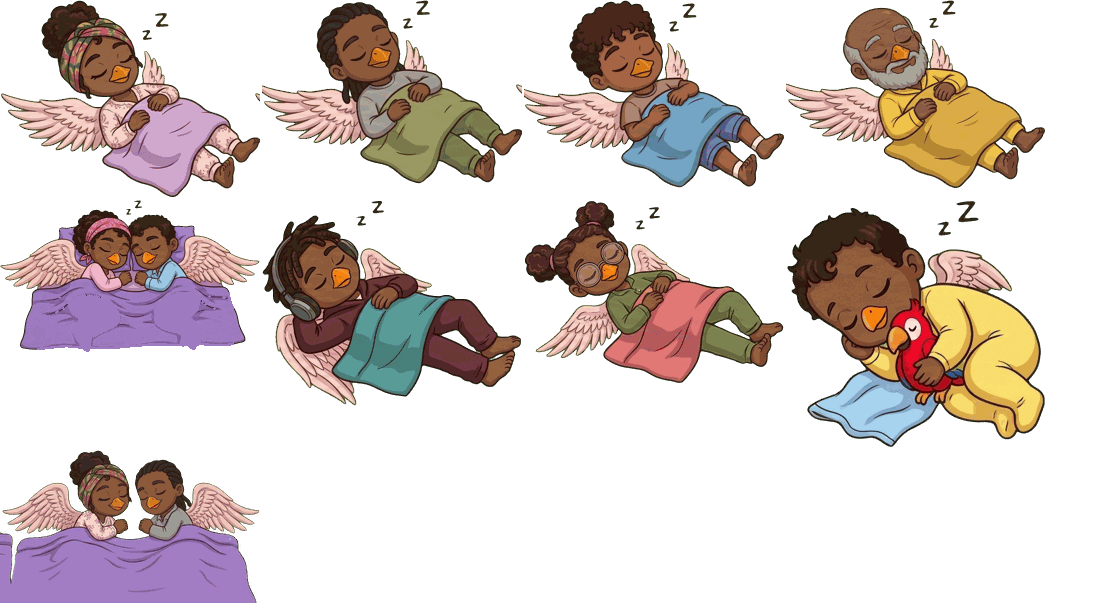
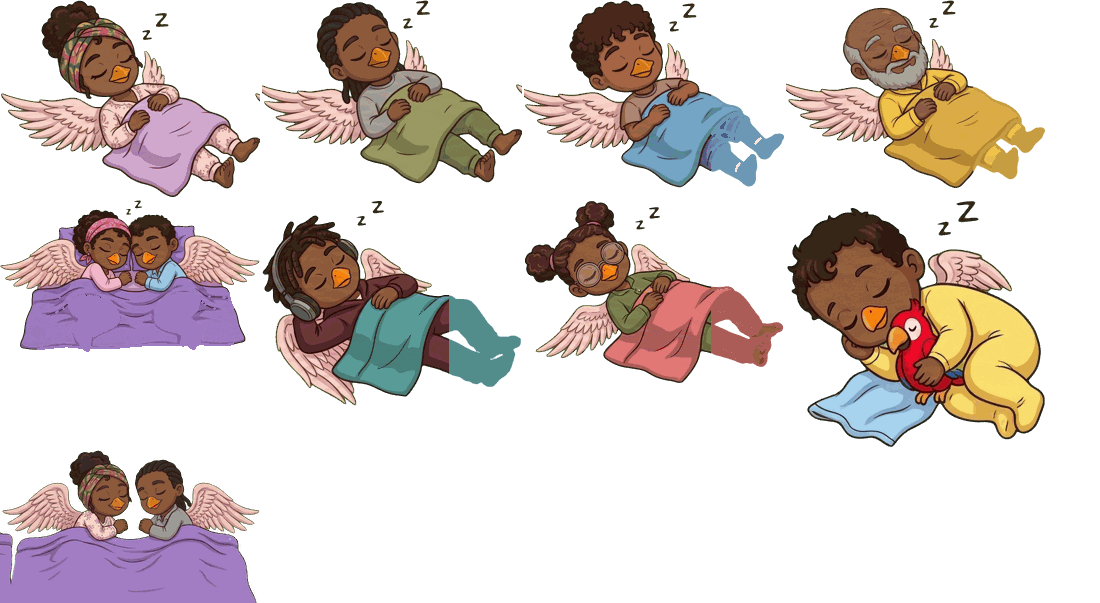
Dormeurs à leur taille en jeu, pieds sous la couverture, Lila et Nijan bien sur leur lit ; cabine dézoomée
Claude-Session: https://claude.ai/code/session_014bi368SbjZ4sCSmbjCzFcj

diff --git a/game.js b/game.js
@@ -4242,17 +4242,17 @@ function icTouch(q) {
   Object.defineProperty(SC_MUS, 'npc', { configurable: true, get: () => nearestN(SC_MUS.npcs()) });
 }
 // la nuit, les habitants qui ont un lit dorment dedans : Miraaï et Kahn (grand lit) et Nijan (lit superposé) chez Myah, la famille Ukaï, Zyno dans sa cabine
-const SLP_IMG = new Image(); SLP_IMG.src = 'assets/sleepers.png?v=60'; const SLP_M = {"maman": [0, 0, 260, 198], "kahn": [262, 0, 260, 184], "frere": [524, 0, 260, 188], "pecheur": [786, 0, 260, 189], "couple": [0, 200, 260, 152], "romi": [262, 200, 260, 206], "lila": [524, 200, 260, 184], "kito": [786, 200, 260, 248], "parents": [0, 450, 260, 153]};
+const SLP_IMG = new Image(); SLP_IMG.src = 'assets/sleepers.png?v=62'; const SLP_M = {"maman": [0, 0, 260, 198], "kahn": [262, 0, 260, 184], "frere": [524, 0, 260, 188], "pecheur": [786, 0, 260, 189], "couple": [0, 200, 260, 152], "romi": [262, 200, 260, 206], "lila": [524, 200, 260, 184], "kito": [786, 200, 260, 248], "parents": [0, 450, 260, 153]};
 const sleepNow = () => isEve() && dayT > .72;
 {
   const gx = k => EXTRAS.find(e => e.key === k), ZYN = QUESTS.find(q => q.id === 'toto'), NJN = QUESTS.find(q => q.id === 'bleu');
   const inH = (o, h) => o && o._in === h;
   const SL = [   // [image, décor, x, y, largeur, angle, miroir, condition] — chaque dormeur à la taille de son lit, la tête sur l'oreiller
-    ['parents', SC_HOME, 530, 183, 135, -.35, 0, () => true],
-    ['frere', SC_HOME, 852, 92, 96, -.22, 0, () => inH(NJN, 'home') && !(IN.lie && IN.lie.bed === 'top')], ['frere', SC_HOME, 852, 192, 96, -.22, 0, () => inH(NJN, 'home') && IN.lie && IN.lie.bed === 'top'],
-    ['couple', SC_UKAI, 548, 182, 140, -.35, 0, () => inH(gx('kykah'), 'ukai') || inH(gx('poggi'), 'ukai')],
-    ['romi', SC_UKAI, 540, 455, 105, .72, 0, () => inH(gx('romi'), 'ukai')], ['lila', SC_UKAI, 852, 192, 92, -.22, 0, () => inH(gx('lila'), 'ukai')], ['kito', SC_UKAI, 905, 252, 50, -.1, 1, () => inH(gx('kito'), 'ukai')],
-    ['pecheur', SC_CABIN, 745, 392, 210, .05, 0, () => inH(ZYN, 'boat')],
+    ['parents', SC_HOME, 530, 183, 233, -.35, 0, () => true],
+    ['frere', SC_HOME, 846, 88, 119, .3, 0, () => inH(NJN, 'home') && !(IN.lie && IN.lie.bed === 'top')], ['frere', SC_HOME, 846, 190, 119, .3, 0, () => inH(NJN, 'home') && IN.lie && IN.lie.bed === 'top'],
+    ['couple', SC_UKAI, 548, 182, 237, -.35, 0, () => inH(gx('kykah'), 'ukai') || inH(gx('poggi'), 'ukai')],
+    ['romi', SC_UKAI, 540, 455, 192, .72, 0, () => inH(gx('romi'), 'ukai')], ['lila', SC_UKAI, 846, 190, 154, .3, 0, () => inH(gx('lila'), 'ukai')], ['kito', SC_UKAI, 905, 252, 77, -.1, 1, () => inH(gx('kito'), 'ukai')],
+    ['pecheur', SC_CABIN, 750, 395, 280, .05, 0, () => inH(ZYN, 'boat')],
   ];
   // le dessus des matelas (le dormeur ne dépasse pas du lit) et ce qui passe devant (rambarde, coffre), redessinés par-dessus
   const MAT = { big: [[452, 172], [555, 145], [665, 180], [662, 210], [560, 248], [455, 214]], bunkT: [[762, 112], [858, 98], [935, 122], [935, 150], [845, 168], [762, 142]], bunkB: [[762, 214], [858, 200], [935, 224], [935, 252], [845, 270], [762, 244]], low: [[840, 234], [940, 186], [1002, 196], [1002, 216], [880, 274], [840, 264]], cab: [[600, 330], [700, 300], [960, 420], [940, 470], [830, 500], [600, 380]] };
@@ -5726,7 +5726,7 @@ function renderInterior(vw, vh) {
   const isHome = SC === SC_HOME;
   const dkz = isHome && !IN.lie ? Math.min(1, Math.max(0, (IN.dk || 0) / DK_UP)) : 0;   // à l'étage on zoome : on ne voit que le haut de l'échelle
   const sT = (IN.lie && isHome ? Math.min(vw / 700, vh / 340) : Math.min(Math.max(s0, vh / 520), Math.max(s0, vw / 650))) * (1 + .4 * dkz);   // plan rapproché dans tous les lieux : la caméra suit Myah
-  const sT2 = SC === SC_KOBHAK ? Math.max(sT, vh / IN_H * 2.2) : SC === SC_DISP || SC === SC_MK2 || SC === SC_MK5 ? Math.max(fit, vh / IN_H * .78) : Math.max(fit, sT * (SC === SC_CABIN ? .86 : SC === SC_MK1 || SC === SC_MK3 || SC === SC_MK4 ? .85 : 1));   // la cale : on recule un peu la caméra
+  const sT2 = SC === SC_KOBHAK ? Math.max(sT, vh / IN_H * 2.2) : SC === SC_DISP || SC === SC_MK2 || SC === SC_MK5 ? Math.max(fit, vh / IN_H * .78) : Math.max(fit, sT * (SC === SC_CABIN ? .62 : SC === SC_MK1 || SC === SC_MK3 || SC === SC_MK4 ? .85 : 1));   // la cale : on recule un peu la caméra
   if (IN.zsSC !== SC || IN.zs == null) { IN.zs = sT2; IN.zsSC = SC; } else IN.zs += (sT2 - IN.zs) * .1;
   const s = IN.zs;
   const camX = IN.lie ? (IN.lie.kob ? KOB_BED.cam[0] : 700) : IN.x, camYt = IN.lie ? (IN.lie.kob ? KOB_BED.cam[1] : 200) : IN.y - 90 * dkz;

diff --git a/index.html b/index.html
@@ -1137,12 +1137,12 @@
 <script src="packs.js"></script>
 <script src="data.js"></script>
 <script src="grass.js"></script>
-<script src="npcs.js?v=61"></script>
+<script src="npcs.js?v=62"></script>
 <script src="myah.js"></script>
 <script src="mymask.js"></script>
 <script src="sprites.js"></script>
 <script src="art.js"></script>
-<script src="game.js?v=61"></script>
+<script src="game.js?v=62"></script>
 </body>
 </html>
 
